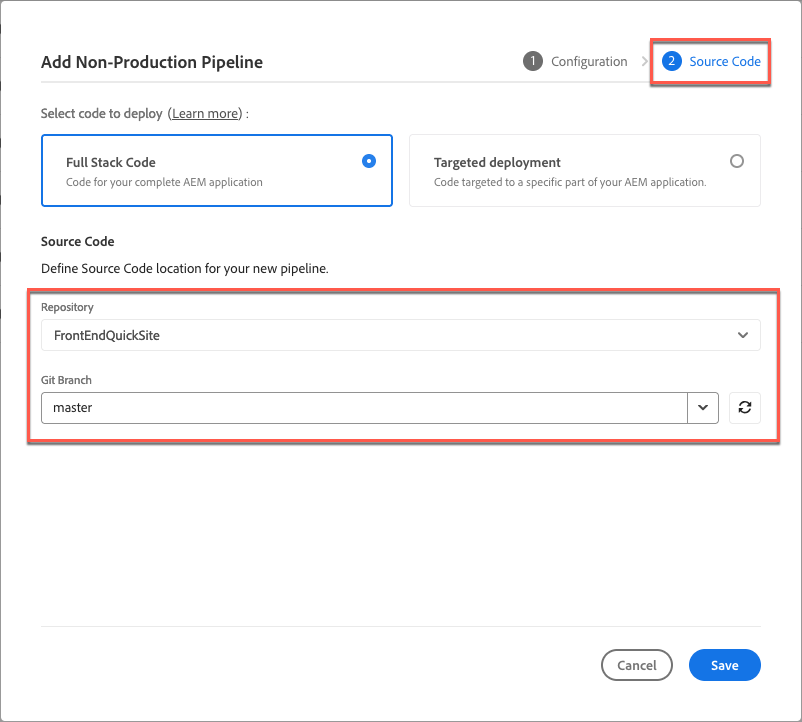
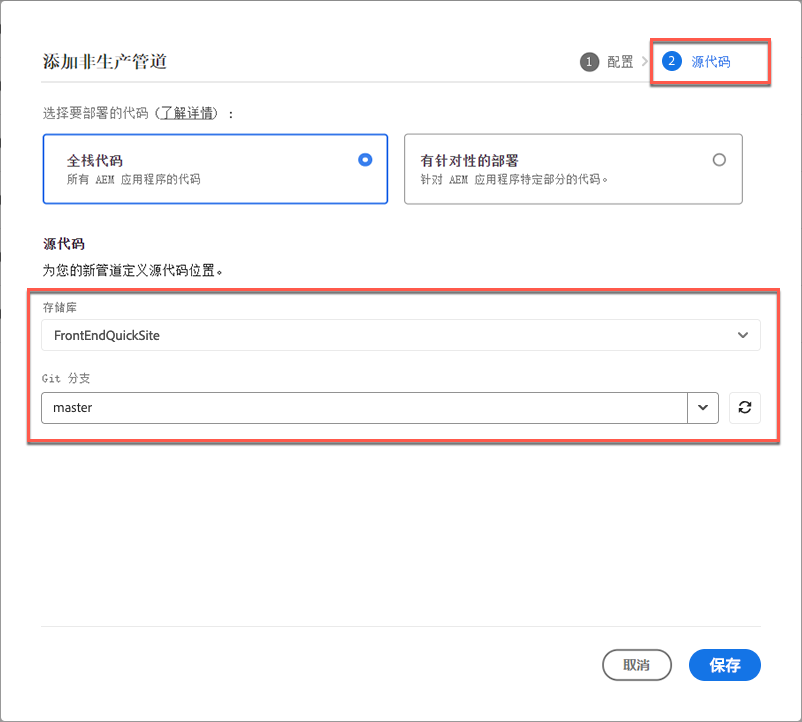
Updated by task 'AUTO_HANDOFF_1728064946206'  Changes for core/source commit https://git.corp.adobe.com/AdobeDocs/experience-manager-cloud-manager.en/commit/593ab468fb09900d061a4d820b8a1a33e2047237

diff --git a/help/managing-code/external-repositories.md b/help/managing-code/external-repositories.md
@@ -1,17 +1,17 @@
 ---
-title: 在Cloud Manager中添加外部存储库（早期采用者）
-description: 了解如何将外部存储库添加到Cloud Manager。 Cloud Manager支持与GitHub、GitLab和Bitbucket存储库集成。
+title: 在 Cloud Manager 中添加外部存储库（早期采用者）
+description: 了解如何将外部存储库添加到 Cloud Manager。Cloud Manager 支持与 GitHub、GitLab 和 Bitbucket 存储库集成。
 source-git-commit: 054c214be3c8c6e8a8bd4691b70ae2098263ef5b
-workflow-type: tm+mt
+workflow-type: ht
 source-wordcount: '740'
-ht-degree: 5%
+ht-degree: 100%
 
 ---
 
 
-# 在Cloud Manager中添加外部存储库 {#external-repositories}
+# 在 Cloud Manager 中添加外部存储库 {#external-repositories}
 
-了解如何将外部存储库添加到Cloud Manager。 Cloud Manager支持与GitHub、GitLab和Bitbucket存储库集成。
+了解如何将外部存储库添加到 Cloud Manager。Cloud Manager 支持与 GitHub、GitLab 和 Bitbucket 存储库集成。
 
 >[!NOTE]
 >
@@ -19,27 +19,27 @@ ht-degree: 5%
 
 ## 配置外部存储库
 
-Cloud Manager中外部存储库的配置包括三个步骤：
+在 Cloud Manager 中配置外部存储库包括三个步骤：
 
-1. [将外部存储库](#add-external-repo)添加到所选程序。
-1. 提供对外部存储库的访问令牌。
+1. [将外部存储库 ](#add-external-repo) 添加到选择的程序。
+1. 向外部存储库提供访问令牌。
 1. 验证外部存储库的所有权。
 
 
-## 添加外部存储库 {#add-ext-repo}
+## 添加一个外部存储库 {#add-ext-repo}
 
 1. 在 [my.cloudmanager.adobe.com](https://my.cloudmanager.adobe.com/) 登录 Cloud Manager 并选择适当的组织。
 
-1. 在**[我的程序](/help/getting-started/navigation.md#my-programs-console)控制台上，选择要链接外部存储库的程序。
+1. 在**[我的程序](/help/getting-started/navigation.md#my-programs-console) 控制台上，选择您想要链接外部存储库的程序。
 
 
-1. 在侧菜单的&#x200B;**服务**&#x200B;下，选择![文件夹图标](https://spectrum.adobe.com/static/icons/workflow_18/Smock_Folder_18_N.svg) **存储库**。
+1. 在侧面菜单中，在&#x200B;**服务**&#x200B;下，选择![文件夹图标](https://spectrum.adobe.com/static/icons/workflow_18/Smock_Folder_18_N.svg)**存储库**。
 
    ![存储库页面](/help/managing-code/assets/repositories-tab.png)
 
-1. 在&#x200B;**存储库**&#x200B;页面的右上角附近，单击&#x200B;**添加存储库**。
+1. 在&#x200B;**存储库**&#x200B;页面的右上角附近，点击&#x200B;**添加存储库**。
 
-1. 在&#x200B;**添加存储库**&#x200B;对话框中，选择&#x200B;**专用存储库**&#x200B;以将外部Git存储库链接到您的项目。
+1. 在&#x200B;**添加存储库**&#x200B;对话框中，选择&#x200B;**专用存储库**，将外部 Git 存储库链接到您的程序。
 
    ![添加自己的存储库](/help/managing-code/assets/repositories-private-repo-type.png)
 
@@ -47,30 +47,30 @@ Cloud Manager中外部存储库的配置包括三个步骤：
 
    | 字段 | 描述 |
    | --- | --- |
-   | **存储库名称** | 必需。 新存储库的表示性名称。 |
-   | **存储库URL** | 必需。 存储库的URL。<br><br>如果您使用的是GitHub托管的存储库，则路径必须以`.git`结尾。<br>例如，*`https://github.com/org-name/repo-name.git`* （URL路径仅供说明之用）。<br><br>如果您使用的是外部存储库，则必须使用以下URL路径格式：<br>`https://git-vendor-name.com/org-name/repo-name.git`<br>或<br>`https://self-hosted-domain/org-name/repo-name.git`<br>并且与您的Git供应商匹配。 |
-   | **选择存储库类型** | 必需。 选择您正在使用的存储库类型： **GitHub**、**GitLab**&#x200B;或&#x200B;**BitBucket**。 如果上述存储库URL路径包含Git供应商名称（如GitLab或Bitbucket），则已为您预先选择存储库类型。 |
-   | **描述** | 可选。 存储库的详细说明。 |
+   | **存储库名称** | 必需。为您的新存储库取一个富有表现力的名称。 |
+   | **存储库 URL** | 必需。存储库的 URL。<br><br>如果您使用 GitHub 托管的存储库，则路径必须以 `.git` 结尾。<br>例如，*`https://github.com/org-name/repo-name.git`*（URL 路径仅用于说明目的）。<br><br>如果您使用外部存储库，则必须使用以下 URL 路径格式：<br>`https://git-vendor-name.com/org-name/repo-name.git`<br> 或 <br>`https://self-hosted-domain/org-name/repo-name.git`<br>，并与您的 Git 供应商匹配。 |
+   | **选择存储库类型** | 必需。选择您正在使用的存储库类型：**GitHub**、**GitLab** 或 **BitBucket**。如果上面的存储库 URL 路径包含 Git 供应商名称，例如 GitLab 或 Bitbucket，则存储库类型已为您预先选择。 |
+   | **描述** | 可选。存储库的详细描述。 |
 
 1. 选择&#x200B;**保存**&#x200B;以添加存储库。
 
-1. 在&#x200B;**私有存储库所有权验证**&#x200B;对话框中，提供访问令牌以验证外部存储库的所有权，以便您可以访问它。
+1. 在&#x200B;**专用存储库所有权验证**&#x200B;对话框中，提供访问令牌来验证外部存储库的所有权，以便您可以访问它。
 
-   ![选择存储库的现有访问令牌](/help/managing-code/assets/repositories-exisiting-access-token.png)
-   *为BitBucket存储库选择现有的访问令牌。*
+   ![为存储库选择现有的访问令牌](/help/managing-code/assets/repositories-exisiting-access-token.png)
+   *为 BitBucket 存储库选择现有的访问令牌。*
 
    | 令牌类型 | 描述 |
    | --- | --- |
-   | **使用现有的访问令牌** | 如果您已经为您的组织提供了存储库访问令牌，并且有权访问多个存储库，则可以选择现有令牌。 使用&#x200B;**令牌名称**&#x200B;下拉列表选择要应用于存储库的令牌。 否则，请添加新访问令牌。 |
-   | **添加新的访问令牌** | **存储库类型：GitHub**<br>·在&#x200B;**令牌名称**&#x200B;文本字段中，键入您创建的访问令牌的名称。<br>·按照[GitHub文档](https://docs.github.com/en/enterprise-server@3.14/authentication/keeping-your-account-and-data-secure/managing-your-personal-access-tokens)中的说明创建个人访问令牌。<br>·所需的权限：<br>  · `Read access to metadata`。<br>  · `Read and write access to code and pull requests`。<br>·在&#x200B;**访问令牌**&#x200B;字段中，粘贴您刚刚创建的令牌。 |
-   |  | **存储库类型： GitLab**<br>·在&#x200B;**令牌名称**&#x200B;文本字段中，键入您创建的访问令牌的名称。<br>·按照[GitLab文档](https://docs.gitlab.com/ee/user/profile/personal_access_tokens.html)中的说明创建个人访问令牌。<br>·所需的权限：<br>  · `api`<br>  · `read_api`<br>  · `read_repository`<br>  · `write_repository`<br>·在&#x200B;**访问令牌**&#x200B;字段中，粘贴您刚刚创建的令牌。 |
-   |  | **存储库类型： Bitbucket**<br>·在&#x200B;**令牌名称**&#x200B;文本字段中，键入您创建的访问令牌的名称。<br>·使用[Bitbucket文档](https://support.atlassian.com/bitbucket-cloud/docs/create-a-repository-access-token/)创建存储库访问令牌。<br>·所需的权限：<br>  · `Read and write access to code and pull requests`。 |
+   | **使用现有的访问令牌** | 如果您已经为贵组织提供了存储库访问令牌，并且有权访问多个存储库，则可以选择一个现有令牌。使用&#x200B;**令牌名称**&#x200B;下拉列表，选择要应用到存储库的令牌。否则，添加一个新的访问令牌。 |
+   | **添加新的访问令牌** | **存储库类型：GitHub**<br>• 在&#x200B;**令牌名称**&#x200B;文本字段中，键入您正在创建的访问令牌的名称。<br>• 按照 [GitHub 文档](https://docs.github.com/en/enterprise-server@3.14/authentication/keeping-your-account-and-data-secure/managing-your-personal-access-tokens)中的说明创建个人访问令牌。<br>• 所需权限：<br> • `Read access to metadata`。<br> • `Read and write access to code and pull requests`。<br>• 在&#x200B;**访问令牌**&#x200B;字段中，粘贴您刚刚创建的令牌。 |
+   |  | **存储库类型：GitLab**<br>• 在&#x200B;**令牌名称**&#x200B;文本字段中，键入您正在创建的访问令牌的名称。<br>• 按照 [GitLab 文档](https://docs.gitlab.com/ee/user/profile/personal_access_tokens.html)中的说明创建个人访问令牌。<br>• 所需权限：<br>  • `api`<br>  • `read_api`<br>  • `read_repository`<br>  • `write_repository`<br>• 在&#x200B;**访问令牌**&#x200B;字段中，粘贴您刚刚创建的令牌。 |
+   |  | **存储库类型：Bitbucket**<br>• 在&#x200B;**令牌名称**&#x200B;文本字段中，键入您正在创建的访问令牌的名称。<br>• 使用 [Bitbucket 文档](https://support.atlassian.com/bitbucket-cloud/docs/create-a-repository-access-token/)创建存储库访问令牌。<br>• 所需权限：<br> • `Read and write access to code and pull requests`。 |
 
    >[!NOTE]
    >
-   >功能&#x200B;**添加新访问令牌**&#x200B;当前处于早期采用者阶段。 正在计划其他功能。 因此，访问令牌所需的权限可能会发生更改。 此外，可以更新用于管理令牌的用户界面，可能包括令牌过期日期等功能。 此外，还会自动检查以确保链接到存储库的令牌保持有效。
+   >**添加新的访问令牌**&#x200B;功能目前处于早期采用者阶段。正在规划其他功能。因此，访问令牌所需的权限可能会发生更改。此外，用于管理令牌的用户界面（包括令牌有效期限等功能）可能会被更新。而且，还将进行自动检查，以确保与存储库链接的令牌保持有效。
 
-1. 单击&#x200B;**验证**。
+1. 点击&#x200B;**验证**。
 
 验证后，外部存储库即可使用并链接到管道。
 
@@ -81,12 +81,12 @@ Cloud Manager中外部存储库的配置包括三个步骤：
    * [添加非生产管道](/help/using/non-production-pipelines.md)
    * [编辑管道](/help/using/managing-pipelines.md#editing-pipelines)
 
-   ![管道的源代码存储库和Git分支](/help/managing-code/assets/pipeline-repo-gitbranch.png)
-   *添加非生产管道对话框，其中包含选定的存储库和Git分支，*
+   ![管道的源代码存储库和 Git 分支](/help/managing-code/assets/pipeline-repo-gitbranch.png)
+   *添加非生产管道对话框，其中包含选择的存储库和 Git 分支，*
 
-1. 添加或编辑管道时，要为新管道或现有管道指定&#x200B;**Source代码**&#x200B;位置，请从&#x200B;**存储库**&#x200B;下拉列表中选择要使用的外部存储库。
+1. 添加或编辑管道时，要指定新管道或现有管道的&#x200B;**源代码**&#x200B;位置，请从&#x200B;**存储库**&#x200B;下拉列表中选择要使用的外部存储库。
 
-1. 在&#x200B;**Git分支**&#x200B;下拉列表中，选择分支作为管道的源。
+1. 在 **Git 分支**&#x200B;下拉列表中，选择该分支作为管道的源。
 
 1. 单击&#x200B;**保存**。
 
@@ -99,4 +99,4 @@ Cloud Manager中外部存储库的配置包括三个步骤：
 ## 限制
 
 * 外部存储库无法链接到配置管道。
-* 使用外部存储库（不包括GitHub托管存储库）和&#x200B;**部署触发器**&#x200B;选项&#x200B;[!UICONTROL **的管道（在Git更改上**]）不会自动启动触发器。 必须手动启动它们。
+* 使用外部存储库（不包括 GitHub 托管的存储库）的管道和&#x200B;**部署触发器**&#x200B;选项&#x200B;[!UICONTROL **在 Git 发生更改时**]，触发器不会自动启动。必须手动启动它们。

diff --git a/help/release-notes/current.md b/help/release-notes/current.md
@@ -3,9 +3,9 @@ title: Cloud Manager 2024.10.0 版的发行说明
 description: 了解 Cloud Manager 2024.10.0 的发行说明。
 feature: Release Information
 source-git-commit: 74e8f7c0f3896e0e33a02b62c003db322c0d50d8
-workflow-type: tm+mt
+workflow-type: ht
 source-wordcount: '369'
-ht-degree: 24%
+ht-degree: 100%
 
 ---
 
@@ -23,44 +23,44 @@ ht-degree: 24%
 
 <!-- SAVE FOR FUTURE POSSIBLE USE No notable bugs or features for the September release of Cloud Manager. -->
 
-[!UICONTROL Cloud Manager] 2024.10.0的发布日期是2024年10月3日。
+[!UICONTROL Cloud Manager] 2024.10.0 版的发布日期为 2024 年 10 月 3 日。
 
-下一个版本计划于2024年11月14日发布。
+下一个版本计划于 2024 年 11 月 14 日发布。
 
 
 
 ## 新增功能 {#what-is-new}
 
-* <!-- BOTH CS & AMS --> Cloud Manager中使用的AEM原型版本现已更新到版本26。 请参阅[https://github.com/adobe/aem-project-archetype/releases](https://github.com/adobe/aem-project-archetype/releases)
+* <!-- BOTH CS & AMS --> Cloud Manager 中使用的 AEM Archetype 版本现已更新到版本 26。请参阅 [https://github.com/adobe/aem-project-archetype/releases](https://github.com/adobe/aem-project-archetype/releases)
 <!-- (CMGR-59817) -->
 
 
 
 ## 早期采用计划 {#early-adoption}
 
-加入Cloud Manager的早期采用计划，并有机会测试即将推出的功能。
+加入 Cloud Manager 早期采用计划，即有机会测试即将推出的功能。
 
-### 自带Git — 现在支持GitLab和Bitbucket {#gitlab-bitbucket}
+### 自带 Git - 现支持 GitLab 和 Bitbucket {#gitlab-bitbucket}
 
 <!-- BOTH CS & AMS -->
 
-**自带Git**&#x200B;功能已扩展到包括对GitLab和Bitbucket等外部存储库的支持。 此新支持是对专用和企业GitHub存储库的现有支持之外的支持。 添加这些新存储库时，您还可以将其直接链接到管道。 您可以在公共云平台上或私有云或基础架构内托管这些存储库。 此集成还消除了对与Adobe存储库进行持续代码同步的需求，并提供了在合并到主分支之前验证拉取请求的功能。
+**自带 Git** 功能已得到扩展，包括对 GitLab 和 Bitbucket 等外部存储库的支持。这项新的支持是对专用和企业 GitHub 存储库现有支持的补充。添加这些新的存储库时，您还可以将它们直接链接到管道。您可以在公共云平台、专用云平台或基础架构中托管这些存储库。这种集成还消除了与 Adobe 存储库持续同步代码的需要，并提供了在提取请求合并到主分支之前对其进行验证的功能。
 
-请参阅[在Cloud Manager中添加外部存储库](/help/managing-code/external-repositories.md)。
+请参阅[在 Cloud Manager 中添加外部存储库](/help/managing-code/external-repositories.md)。
 
 ![添加“存储库”对话框](/help/release-notes/assets/repositories-add-release-notes.png)
 
 >[!NOTE]
 >
->目前，开箱即用的拉取请求代码质量检查专供GitHub托管的存储库使用，但正在研究如何将此功能扩展到其他Git供应商。
+>目前，开箱即用的提取请求代码质量检查仅限于 GitHub 托管的存储库，但正在计划将此功能扩展到其他 Git 供应商的更新。
 
-如果您有兴趣测试这项新功能并分享您的反馈，请从与Adobe ID关联的电子邮件地址向[Grp-CloudManager_BYOG@adobe.com](mailto:Grp-CloudManager_BYOG@adobe.com)发送电子邮件。 请务必包括您要使用的Git平台，以及您使用的是专用/公共还是企业存储库结构。
+如果您有兴趣测试此新功能并分享您的反馈，请从与您的 Adobe ID 关联的电子邮件地址发送电子邮件至 [Grp-CloudManager_BYOG@adobe.com](mailto:Grp-CloudManager_BYOG@adobe.com)。请务必注明您想要使用的 Git 平台以及您是处于专用/公共还是企业存储库结构中。
 
 ### 仅暂存和仅生产管道 {#staging-production-only-pipelines}
 
-Adobe宣布引入对[仅限暂存和仅限生产的管道](/help/using/stage-prod-only.md)的支持。 此新功能可让您将全栈生产部署管道划分为更小、更专业的部署。
+Adobe 宣布推出对[仅暂存和仅生产管道](/help/using/stage-prod-only.md)的支持。此新功能可让您将全栈生产部署管道划分为更小、更专业的部署。
 
-如果要测试此功能并提供反馈，请通过与Adobe ID关联的电子邮件地址向[Grp-cloudmanager_splitpipelines@adobe.com](mailto:Grp-cloudmanager_splitpipelines@adobe.com)发送电子邮件。
+如果您想测试此功能并提供反馈，请使用与您的 Adobe ID 关联的电子邮件地址发送电子邮件至 [Grp-cloudmanager_splitpipelines@adobe.com](mailto:Grp-cloudmanager_splitpipelines@adobe.com)。
 
 <!-- ## Bug fixes
 

diff --git a/help/using/managing-pipelines.md b/help/using/managing-pipelines.md
@@ -3,9 +3,9 @@ title: 管理管道
 description: 了解如何管理现有管道，包括运行、编辑和删除它们。
 exl-id: e36420d2-57c5-4375-99fb-dd47c1c8bffd
 source-git-commit: 9d910e1b1a4aad000a8389ddc22ce380bbccd4ef
-workflow-type: tm+mt
+workflow-type: ht
 source-wordcount: '840'
-ht-degree: 89%
+ht-degree: 100%
 
 ---
 
@@ -36,11 +36,11 @@ Cloud Manager 中的&#x200B;**项目概述**&#x200B;页面上的&#x200B;**管道
 
 ## 管道页面 {#pipelines}
 
-**管道**&#x200B;页面显示选定项目的所有管道的完整列表。 此列表很有用，因为它提供的信息比[管道信息卡](#pipeline-card)中的信息更全面。
+**管道**&#x200B;页面显示所选项目的所有管道的完整列表。此列表很有用，因为它提供的信息比[管道信息卡](#pipeline-card)中的信息更全面。
 
 1. 在 [my.cloudmanager.adobe.com](https://my.cloudmanager.adobe.com/) 上登录到 Cloud Manager 并选择适当的组织和项目。
 
-1. 从&#x200B;**项目概述**&#x200B;页面，单击&#x200B;**管道**&#x200B;选项卡以切换到&#x200B;**管道**&#x200B;页面。
+1. 在&#x200B;**程序概述**&#x200B;页面中单击&#x200B;**管道**&#x200B;选项卡以切换到&#x200B;**管道**&#x200B;页面。
 
 1. 在这里，您可以看到程序的所有管道的列表，并可以像在&#x200B;**管道信息卡**&#x200B;中一样启动和停止管道执行。
 
@@ -52,11 +52,11 @@ Cloud Manager 中的&#x200B;**项目概述**&#x200B;页面上的&#x200B;**管道
 
 ## 活动页面 {#activity}
 
-**活动**&#x200B;页面显示选定项目的所有管道执行的完整列表。
+**活动**&#x200B;页面显示所选项目的所有管道执行的完整列表。
 
 1. 在 [my.cloudmanager.adobe.com](https://my.cloudmanager.adobe.com/) 上登录到 Cloud Manager 并选择适当的组织和项目。
 
-1. 从&#x200B;**项目概述**&#x200B;页面，单击&#x200B;**活动**&#x200B;选项卡以切换到&#x200B;**活动**&#x200B;页面。
+1. 在&#x200B;**项目概述**&#x200B;页面中单击&#x200B;**活动**&#x200B;选项卡以切换到&#x200B;**活动**&#x200B;页面。
 
 1. 在这里，您可以看到项目的所有管道执行的列表，包括当前执行和历史执行。
 
@@ -68,7 +68,7 @@ Cloud Manager 中的&#x200B;**项目概述**&#x200B;页面上的&#x200B;**管道
 
 ## 运行管道 {#running-pipelines}
 
-1. 在 [my.cloudmanager.adobe.com](https://my.cloudmanager.adobe.com/) 上登录到 Cloud Manager 并选择相应的组织和项目。
+1. 在 [my.cloudmanager.adobe.com](https://my.cloudmanager.adobe.com/) 上登录到 Cloud Manager 并选择适当的组织和项目。
 1. 从&#x200B;**项目概述**&#x200B;页面导航到&#x200B;**管道**&#x200B;信息卡。
 1. 单击您运行的管道旁边的省略号按钮，然后从菜单中选择&#x200B;**运行**。
 

diff --git a/help/main-toc/TOC.md b/help/main-toc/TOC.md
@@ -8,9 +8,9 @@ feature-set: Experience Manager Cloud Manager, Experience Manager
 feature: Cloud Manager
 role: Admin
 source-git-commit: 1209faf71edbd74cd87acfe24ec438b98ddd4a3a
-workflow-type: tm+mt
+workflow-type: ht
 source-wordcount: '342'
-ht-degree: 71%
+ht-degree: 100%
 
 ---
 
@@ -46,7 +46,7 @@ ht-degree: 71%
    + CI/CD 管道 {#pipelines}
       + [配置生产管道](/help/using/production-pipelines.md)
       + [配置非生产管道](/help/using/non-production-pipelines.md)
-      + [分离阶段和仅生产管道（早期采用者）](/help/using/stage-prod-only.md)
+      + [拆分阶段和仅生产管道（早期采用者）](/help/using/stage-prod-only.md)
       + [管理管道](/help/using/managing-pipelines.md)
    + [代码部署](/help/using/code-deployment.md)
    + [代码质量测试](/help/using/code-quality-testing.md)
@@ -57,17 +57,17 @@ ht-degree: 71%
    + [通知](/help/using/notifications.md)
    + [自定义代码质量规则](/help/using/custom-code-quality-rules.md)
    + [内容复制](/help/using/content-copy.md)
-+ 管理代码{#managing-code}
++ 管理代码 {#managing-code}
    + [在 Cloud Manager 中管理存储库](/help/managing-code/managing-repositories.md)
    + [存储库访问信息](/help/managing-code/accessing-repositories.md)
-   + [添加Adobe资源库](/help/managing-code/adobe-repositories.md)
-   + [添加专用存储库](/help/managing-code/private-repositories.md)
-   + [添加外部存储库（早期采用者）](/help/managing-code/external-repositories.md)
+   + [添加一个 Adobe 存储库](/help/managing-code/adobe-repositories.md)
+   + [添加一个专用存储库](/help/managing-code/private-repositories.md)
+   + [添加一个外部存储库（早期采用者）](/help/managing-code/external-repositories.md)
    + [Git 子模块支持](/help/managing-code/git-submodules.md)
    + [GitHub 检查配置](/help/managing-code/github-check-config.md)
    + [GitHub 检查批注](/help/managing-code/github-annotations.md)
    + [Maven 项目版本处理](/help/managing-code/maven-project-version.md)
-   + [与Git集成](/help/managing-code/git-integration.md)
+   + [与 Git 集成](/help/managing-code/git-integration.md)
    + [使用多个 Git 存储库](/help/managing-code/multiple-git-repos.md)
 + 产品更新向导 {#product-update-wizard}
    + [概述](/help/product-update-wizard/overview.md)

diff --git a/help/managing-code/accessing-repositories.md b/help/managing-code/accessing-repositories.md
@@ -3,7 +3,7 @@ title: 存储库访问信息
 description: 了解如何使用 Cloud Manager 的自助 Git 帐户管理访问和管理 Adobe 管理的 Git 存储库。
 exl-id: 1cc88c82-67c7-4553-a1b8-d2ab22be466c
 source-git-commit: 04fbc4a3fdba8b108055d66a4fdb1a31994cb18e
-workflow-type: tm+mt
+workflow-type: ht
 source-wordcount: '381'
 ht-degree: 100%
 

diff --git a/help/using/non-production-pipelines.md b/help/using/non-production-pipelines.md
@@ -3,9 +3,9 @@ title: 添加非生产管道
 description: 了解如何使用 Cloud Manager 创建和配置非生产管道以部署代码。
 exl-id: ccf4b4a2-6e29-4ede-821c-36318b568e5c
 source-git-commit: 1209faf71edbd74cd87acfe24ec438b98ddd4a3a
-workflow-type: tm+mt
+workflow-type: ht
 source-wordcount: '688'
-ht-degree: 98%
+ht-degree: 100%
 
 ---
 

diff --git a/help/using/production-pipelines.md b/help/using/production-pipelines.md
@@ -3,9 +3,9 @@ title: 添加生产管道
 description: 了解如何使用 Cloud Manager 创建和配置生产管道以部署代码。
 exl-id: d489fa3c-df1e-480b-82d0-ac8cce78a710
 source-git-commit: 1209faf71edbd74cd87acfe24ec438b98ddd4a3a
-workflow-type: tm+mt
+workflow-type: ht
 source-wordcount: '1249'
-ht-degree: 99%
+ht-degree: 100%
 
 ---
 

diff --git a/help/release-notes/2024/2024-9-0.md b/help/release-notes/2024/2024-9-0.md
@@ -3,7 +3,7 @@ title: Cloud Manager 2024.9.0 版的发行说明
 description: 了解 Cloud Manager 2024.9.0 的发行说明。
 feature: Release Information
 source-git-commit: 9d910e1b1a4aad000a8389ddc22ce380bbccd4ef
-workflow-type: tm+mt
+workflow-type: ht
 source-wordcount: '184'
 ht-degree: 100%
 
